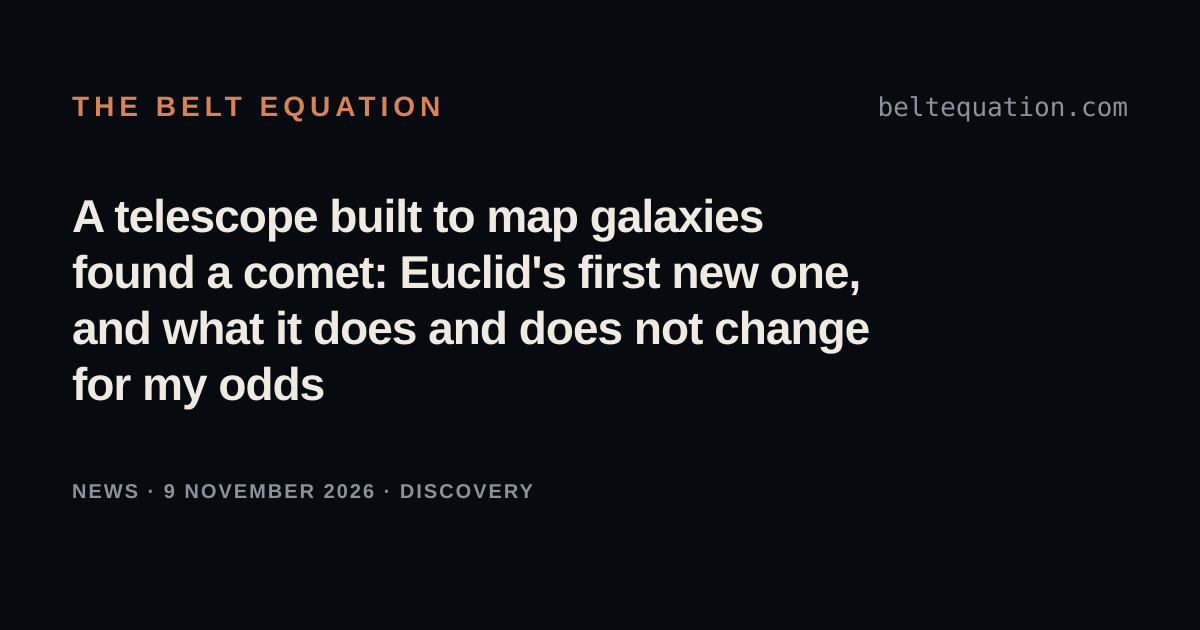
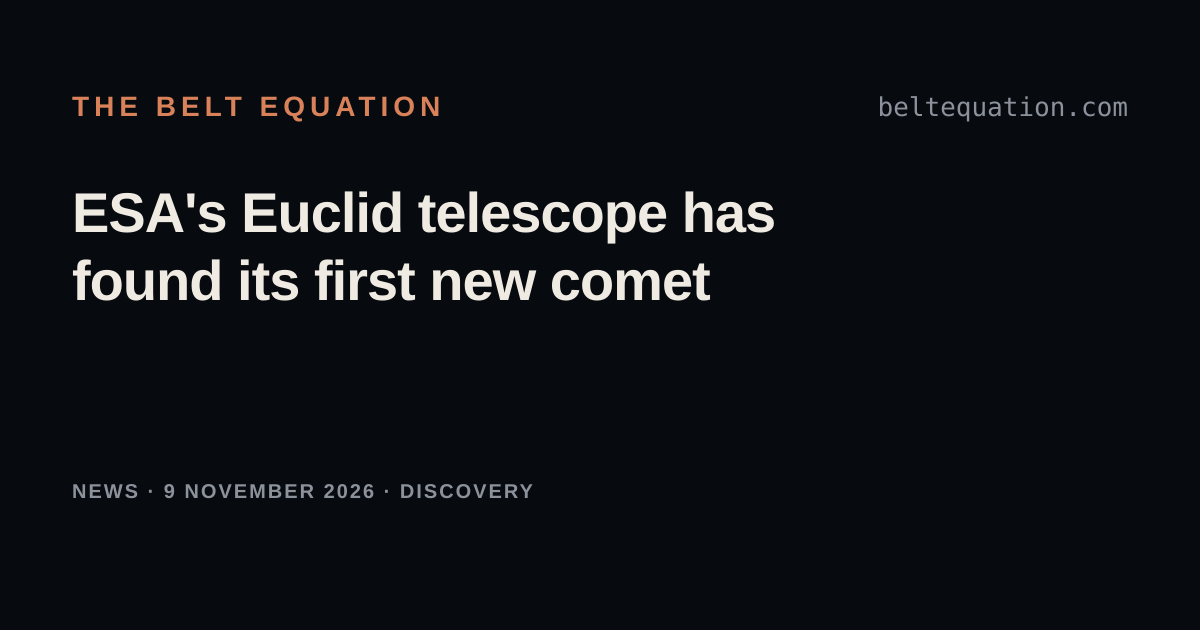
2026-11-09: news posts stick to the news; the odds ending is no longer required, and the Euclid comet post is rewritten that way
John: "Not every article needs to include the statement ... the article
itself can stick to the news." check_news.py drops the rule for mission news
and discovery posts; tests, website plan, content config and decision log
follow. The Euclid post takes John's title, "ESA's Euclid telescope has found
its first new comet", and drops the odds framing.

Claude-Session: https://claude.ai/code/session_01Fada7ctV2DzrE1WNqUURJd

Changed region(s): [[0.0617, 0.3016, 0.74, 0.573], [0.0617, 0.573, 0.2775, 0.6635]]

diff --git a/site/src/content.config.ts b/site/src/content.config.ts
@@ -10,7 +10,8 @@ import { glob } from 'astro/loaders';
 // about a mission on the Missions page, which names missions (`missions`) instead of records.
 // 'discovery' is the ninth kind (asked for by John 2026-10-27, on Rubin's first dwarf planet candidate): something
 // newly found in the solar system, worth knowing about whether or not it touches a step. It names no record and
-// no mission, carries its sources, and ends on what it does and does not change for the odds.
+// no mission and carries its sources. It sticks to the news, and speaks of the odds only where the find bears on a
+// step (John, 2026-11-09; until then it had to end on what it does and does not change for the odds).
 export const NEWS_KINDS = ['start-here', 'rung-reached', 'estimate-revised', 'flagged-item-ruled', 'claim', 'headline-moved', 'method-changed', 'mission-news', 'discovery'] as const;
 
 // YAML reads a bare 2026-10-18 as a date; the site keeps dates as YYYY-MM-DD strings.

diff --git a/scripts/check_news.py b/scripts/check_news.py
@@ -21,15 +21,18 @@ what the record does not show. The rules are John's of 2026-10-18.
 Mission news (the eighth kind, "mission-news"; tracker pattern rule 4.20, ruled by John 2026-10-21)
 names missions from data/missions.toml (`missions: [...]`) in place of records. The check refuses
 one that names no mission or one not on the Missions page; names a mission with no milestone
-marked done, moved or failed within fourteen days of the post's date; does not end on what the
-event does and does not change for the odds (its last paragraph must speak of the odds or the
-number); or is a third mission news post in one week (Monday to Sunday), past the ceiling of two.
+marked done, moved or failed within fourteen days of the post's date; or is a third mission news
+post in one week (Monday to Sunday), past the ceiling of two.
 
 A discovery (the ninth kind, "discovery"; asked for by John 2026-10-27, on Rubin's first dwarf planet
 candidate) is about something newly found in the solar system, whether or not it touches a step. It
 names no record and no mission, so the check asks of it only what it asks of every post (a source, a
-link beside every figure) and, as of mission news, that its last paragraph speaks of the odds or the
-number, so a reader is never left thinking a find moved the tree when it did not.
+link beside every figure).
+
+Until 2026-11-09 the check also required a mission news or discovery post to end on what the event
+does and does not change for the odds. John dropped that on 2026-11-09: these posts stick to the
+news, and speak of the odds only where the event bears on a step ("Not every article needs to
+include the statement ... the article itself can stick to the news").
 """
 from __future__ import annotations
 
@@ -43,10 +46,7 @@ from pathlib import Path
 ROOT = Path(__file__).resolve().parent.parent
 KINDS = {"start-here", "rung-reached", "estimate-revised", "flagged-item-ruled", "claim", "headline-moved", "method-changed", "mission-news", "discovery"}
 UNRECORDED = ("start-here", "mission-news", "discovery")  # the kinds that name no record
-ENDS_ON_THE_ODDS = ("mission-news", "discovery")  # the kinds whose last paragraph must say what it means for the odds
-KIND_WORDS = {"mission-news": "mission news", "discovery": "discovery"}
 MISSION_POSTS_PER_WEEK = 2
-ODDS_RE = re.compile(r"\b(odds|number)\b", re.I)
 WINDOW_DAYS = 14
 NAME_RE = re.compile(r"^(\d{4}-\d{2}-\d{2})-([a-z0-9]+(?:-[a-z0-9]+)*)\.md$")
 
@@ -206,10 +206,6 @@ def check(posts_dir: Path, records: dict) -> tuple[list[str], int]:
                     problems.append(f"{name}: {mid} has no milestone marked done, moved or failed within {WINDOW_DAYS} days of {when}; a post cannot announce what the Missions page does not show")
             iso = when.isocalendar()
             mission_weeks.setdefault((iso[0], iso[1]), []).append(name)
-        if kind in ENDS_ON_THE_ODDS:
-            paras = paragraphs(body)
-            if not paras or not ODDS_RE.search(paras[-1]):
-                problems.append(f"{name}: a {KIND_WORDS[kind]} post ends on what the event does and does not change for the odds; its last paragraph does not")
         if when and kind not in UNRECORDED:
             for rid in recs:
                 if rid in by_id and not record_changed_near(by_id[rid], when, readings):

diff --git a/scripts/test_news.py b/scripts/test_news.py
@@ -91,9 +91,10 @@ class MissionNews(unittest.TestCase):
         far = self.GOOD.replace("2026-10-08", "2026-12-20")
         self.assertTrue(any("no milestone marked done" in p for p in self.run_check({"2026-12-20-hera.md": far})))
 
-    def test_a_post_that_does_not_end_on_the_odds_is_refused(self):
-        bad = self.GOOD.replace("This doesn't change my odds.", "Next it arrives.")
-        self.assertTrue(any("ends on what the event" in p for p in self.run_check({"2026-10-08-hera.md": bad})))
+    def test_a_post_need_not_end_on_the_odds(self):
+        # John, 2026-11-09: mission news sticks to the news; the odds line is no longer required.
+        plain = self.GOOD.replace("This doesn't change my odds.", "Next it arrives.")
+        self.assertEqual(self.run_check({"2026-10-08-hera.md": plain}), [])
 
     def test_a_third_post_in_one_week_is_refused(self):
         posts = {f"2026-10-0{d}-hera-{d}.md": self.GOOD.replace("2026-10-08", f"2026-10-0{d}") for d in (6, 7, 8)}
@@ -105,7 +106,7 @@ class MissionNews(unittest.TestCase):
 
 
 class Discovery(unittest.TestCase):
-    """A discovery, the ninth kind (asked for by John 2026-10-27): names no record or mission; ends on the odds."""
+    """A discovery, the ninth kind (asked for by John 2026-10-27): names no record or mission."""
 
     RECORDS = {"nodes": [], "entries": [], "scans": [], "missions": []}
     GOOD = ("---\ntitle: A new dwarf planet candidate\ndate: 2026-10-27\nkind: discovery\nsummary: Found.\n"
@@ -125,9 +126,9 @@ class Discovery(unittest.TestCase):
     def test_it_need_not_name_a_record(self):
         self.assertFalse(any("names no record" in p for p in self.run_check(self.GOOD)))
 
-    def test_a_post_that_does_not_end_on_the_odds_is_refused(self):
-        bad = self.GOOD.replace("It moves none of my odds.", "Next comes the infrared.")
-        self.assertTrue(any("a discovery post ends on what the event" in p for p in self.run_check(bad)))
+    def test_a_post_need_not_end_on_the_odds(self):
+        # John, 2026-11-09: a discovery post sticks to the news; the odds line is no longer required.
+        self.assertEqual(self.run_check(self.GOOD.replace("It moves none of my odds.", "Next comes the infrared.")), [])
 
     def test_it_may_not_name_a_mission(self):
         bad = self.GOOD.replace("sources:", "missions: [hera]\nsources:")

diff --git a/site/src/content/news/2026-11-09-euclid-first-new-comet.md b/site/src/content/news/2026-11-09-euclid-first-new-comet.md
@@ -1,8 +1,8 @@
 ---
-title: "A telescope built to map galaxies found a comet: Euclid's first new one, and what it does and does not change for my odds"
+title: "ESA's Euclid telescope has found its first new comet"
 date: 2026-11-09
 kind: discovery
-summary: ESA's Euclid space telescope, built to look far beyond the solar system, found a comet no one had seen before, C/2026 S1 (Euclid), on an orbit tilted almost straight up from the planets. No step of the tree is about finding comets, so my odds hold still, but every new eye on the small bodies of the solar system fills in the map the steps will be walked on.
+summary: Euclid, a European space telescope built to map distant galaxies, has found a comet no one had seen before. C/2026 S1 (Euclid) is between the distances of Jupiter and Saturn from the Sun, on an orbit tilted almost straight up from the planets.
 sources:
   - label: ESA's announcement of October 19th, 2026
     url: https://www.esa.int/articles/about-us/directorates/science/euclid/euclid-discovers-new-comet
@@ -14,7 +14,7 @@ sources:
     url: https://www.esa.int/media/a-composite-of-eight-euclid-vis-exposures-of-comet-c-2026-s1-euclid
 ---
 
-I want to leave the planet before I die, and [the odds this site works out](/) depend on seven kinds of things going right, from cheap launch to a seat for me. None of the seven is "we find another comet". So this post moves nothing. I am writing it because this site is also a place to keep up with what is being found in our own solar system, and this one slipped past: [ESA announced it on October 19th, 2026](https://www.esa.int/articles/about-us/directorates/science/euclid/euclid-discovers-new-comet), a week before this site began watching for discoveries.
+The European Space Agency [announced on October 19th, 2026](https://www.esa.int/articles/about-us/directorates/science/euclid/euclid-discovers-new-comet) that its Euclid space telescope has found its first previously unknown comet, now named C/2026 S1 (Euclid).
 
 ## What was found
 
@@ -37,12 +37,10 @@ It will come closest to the Sun around [September 13th, 2027](https://www.minorp
 
 Euclid [deliberately looks away](https://www.esa.int/articles/about-us/directorates/science/euclid/euclid-discovers-new-comet) from the band of sky along the planets' plane, where most asteroids and comets are, because their dust adds glare to its deep pictures. It also looks at each patch of sky only once, so it cannot go back to check a moving thing. This comet was caught because its steep orbit carried it through the patch Euclid happened to be photographing over those days. ESA's team calls it a happy coincidence.
 
-## What it has to do with this site
+## A rehearsal for Comet Interceptor
 
-The question the site asks is whether human industry reaches beyond Earth and Mars. No step of [the tree](/tree/) is about finding comets, and this find changes no number. The nearest step is [a hundred tonnes of material from an asteroid delivered to orbit in one year](/tree/launch/L-asteroid-material-delivered-to-orbit-at-scale/), and a comet that never comes inside Saturn's orbit is no one's mine.
-
-The more interesting link is the one ESA draws itself. Its [Comet Interceptor](https://en.wikipedia.org/wiki/Comet_Interceptor) mission will wait in space for a fresh comet to visit, and finding candidates early, while they are still far from the Sun, is what makes that possible. This comet is [not a suitable target](https://www.esa.int/articles/about-us/directorates/science/euclid/euclid-discovers-new-comet), but the chain from a flagged streak to a confirmed comet two weeks after the last pictures is a rehearsal for one that is.
+ESA's [Comet Interceptor](https://en.wikipedia.org/wiki/Comet_Interceptor) mission will wait in space for a fresh comet to visit, and finding candidates early, while they are still far from the Sun, is what makes that possible. This comet is [not a suitable target](https://www.esa.int/articles/about-us/directorates/science/euclid/euclid-discovers-new-comet), but ESA calls the process of finding it and raising the alert a real test case for how the two mission teams will work together.
 
 ## What to watch for
 
-A better orbit, as the comet is followed toward [its closest pass in 2027](https://www.minorplanetcenter.net/db_search/show_object?object_id=C%2F2026+S1), and whether Euclid's software, built to clean moving things out of its galaxy pictures, turns up more. When the orbit firms up, I will note it here. My odds will stay where they are: a comet found is a fact about the map, not a step taken on it.
+A better orbit, as the comet is followed toward [its closest pass in 2027](https://www.minorplanetcenter.net/db_search/show_object?object_id=C%2F2026+S1), and whether Euclid's software, built to clean moving things out of its galaxy pictures, turns up more.

diff --git a/docs/website-plan.md b/docs/website-plan.md
@@ -75,4 +75,4 @@ Ruled by John on 2026-10-20 and 2026-10-21 (docs/proposal-missions-to-watch-2026
 - **The timeline** (`site/src/components/MissionTimeline.astro`): every milestone from 2026 to 2035, drawn as plain SVG at build time like the history chart. Years run left to right on a computer; below 700 pixels it becomes a list by year, with the years already past folded behind "Show what has happened". A filled dot happened, a hollow dot is planned, a bar is planned for a season, a year or a span, a cross failed, and a faint mark joined by a line is a moved date's old place. Every mark is in the data colour (`--accent-3`), never the rust. Under it, every milestone as a table and as a CSV file at `/data/missions.csv`.
 - **Where it comes from:** `data/missions.toml`, checked and exported by `scripts/missions.py` (called from `scripts/export.py`) into `site/src/data/missions.json`. A file that breaks its rules stops the build.
 - **Mission news:** posts of the eighth kind, `mission-news`, live in News with their own label and name missions instead of records (`site/src/content.config.ts`; `scripts/check_news.py`).
-- **Discoveries (added 2026-10-27):** posts of the ninth kind, `discovery`, asked for by John on 2026-10-27 when the Rubin Observatory reported its first dwarf planet candidate ("a great place to keep up to date on the latest discoveries in our local solar system"). A discovery post is about something newly found in the solar system, whether or not it touches a step. It names no record and no mission, carries its sources, says honestly which part of the tree it bears on, and ends on what it does and does not change for the odds, which `scripts/check_news.py` enforces as it does for mission news. The first: `site/src/content/news/2026-10-27-rubin-first-dwarf-planet-candidate.md`.
+- **Discoveries (added 2026-10-27):** posts of the ninth kind, `discovery`, asked for by John on 2026-10-27 when the Rubin Observatory reported its first dwarf planet candidate ("a great place to keep up to date on the latest discoveries in our local solar system"). A discovery post is about something newly found in the solar system, whether or not it touches a step. It names no record and no mission, carries its sources, and sticks to the news. Amended by John on 2026-11-09, for discovery and mission news alike: such a post need not say what the event does or does not change for the odds, and the whole post is not about that; it mentions the odds only where the event bears on a step of the tree, in a sentence, not a section. Until then each had to end on the odds, and `scripts/check_news.py` enforced it; the check no longer does. The first: `site/src/content/news/2026-10-27-rubin-first-dwarf-planet-candidate.md`.

diff --git a/docs/definitions.md b/docs/definitions.md
@@ -180,3 +180,4 @@ Near-term commitment: John intends to spend a significant share of his free time
 - 2026-11-09. A service sold from equipment built off Earth should count toward Tier 3's off-Earth economy (docs/proposal-computing-as-off-earth-product-2026-10-31.md), agreed in principle; the tree changes at the annual review of 2027-01-03, after the proposal is revised on in-house use, a gate node for making working hardware off Earth, and lower first numbers (proposed by Claude, approved in principle by John).
 - 2026-11-09. For the computing proposal, in-house use counts toward the new route when the company sells what that computing produces to customers not affiliated with it; computing used only for the company's own work, with nothing sold outside, still does not (proposed by Claude as the second of two options, chosen by John).
 - 2026-11-09. On the first scan of each month, the scan opens the operator's own page for each mission that links to Wikipedia instead, and switches the link when that page gives text again (docs/scan-procedure.md, step 3c, item 6; proposed by Claude, approved by John).
+- 2026-11-09. Mission news and discovery posts stick to the news. They no longer have to end on what the event does and does not change for the odds, and the post is not about that; the odds come up only where the event bears on a step of the tree, in a sentence, not a section. scripts/check_news.py no longer enforces the old ending (decided by John: "Not every article needs to include the statement ... the article itself can stick to the news").

diff --git a/CHANGELOG.md b/CHANGELOG.md
@@ -14,6 +14,7 @@ Every change to the tree, the definitions, or the headline numbers, with absolut
 - Missions: Hayabusa2's main link is now JAXA's own Hayabusa2 page, which loads again. The two Chinese missions keep their Wikipedia links: China's space agency site still gives no dates for Chang'e 7 and nothing on Tianwen-2 since its launch.
 - Scan procedure: the first scan of each month re-checks every mission that links to Wikipedia instead of its operator (docs/scan-procedure.md, step 3c, item 6).
 - Proposal on computing from equipment built off Earth: John ruled that in-house use counts when the company sells what the computing produces to outside customers.
+- News: mission news and discovery posts no longer have to end on what the event does and does not change for the odds (scripts/check_news.py, docs/website-plan.md); they stick to the news. Ruled by John.
 - Scan procedure: a moved milestone's `moved_on` is the day it moved, as the source gives it, not the day the scan reads it, matching data/README.md (ruled by John).
 
 ## 2026-11-08
